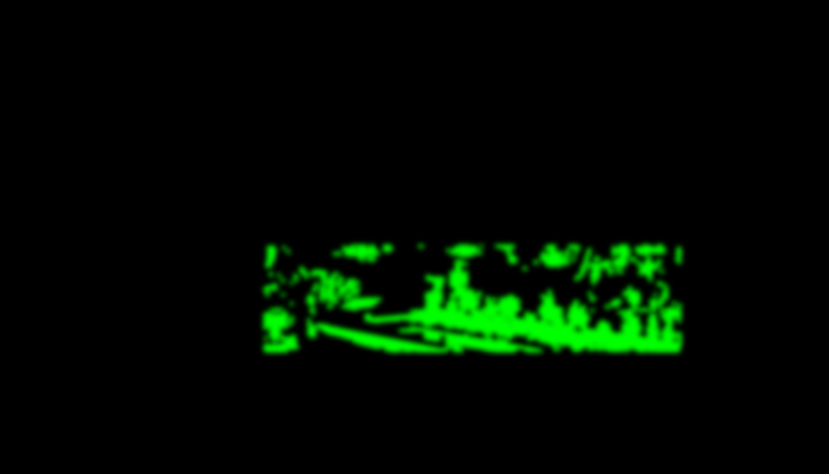
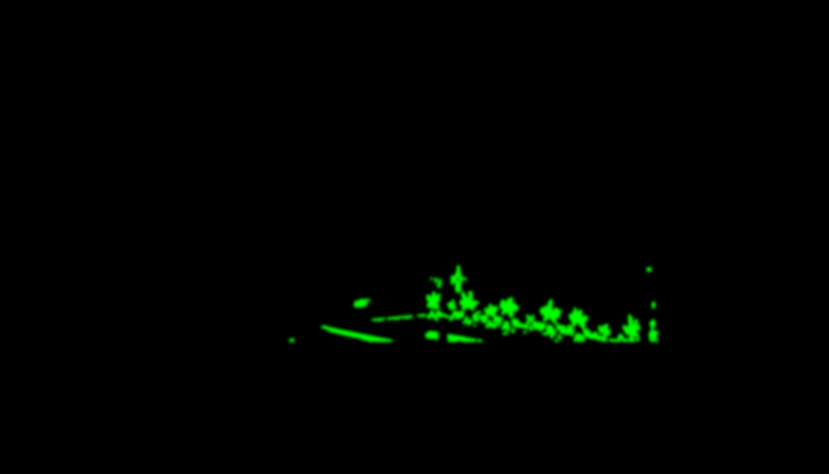
Trattoria Lume: tighter fire mask + readable After Sunset headline
- Rebuilt the terrace fire mask so only the actual flames animate, no bleed
  onto the deck, candles, or trees (fixed the 'whole page wavy' effect
  on the Late Night page).
- Added text shadow and a subtle glass pill behind the kicker on the Late
  Night hero so 'After Sunset' doesn't wash out against the uplit trees.
- Mirrored the headline shadow on the homepage terrace section.

Claude-Session: https://claude.ai/code/session_017zgNfKE9kkyFwF5JTjYFit

Changed region(s): [[0.3016, 0.5021, 0.8444, 0.7679]]

diff --git a/restaurant-demo/late-night.html b/restaurant-demo/late-night.html
@@ -15,9 +15,11 @@
   .late-hero picture img { object-fit: cover; }
   .late-hero canvas.fire { position: absolute; inset: 0; width: 100%; height: 100%; z-index: -2; opacity: 0; transition: opacity .6s; }
   .late-hero canvas.fire.on { opacity: 1; }
-  .late-hero::before { content: ""; position: absolute; inset: 0; z-index: -1; background: linear-gradient(to top, rgba(14,10,6,.9) 0%, rgba(14,10,6,.12) 55%, rgba(14,10,6,.35) 100%); }
+  .late-hero::before { content: ""; position: absolute; inset: 0; z-index: -1; background: linear-gradient(to top, rgba(14,10,6,.9) 0%, rgba(14,10,6,.25) 45%, rgba(14,10,6,.6) 85%, rgba(14,10,6,.75) 100%); }
   .late-hero .wrap { position: relative; z-index: 2; max-width: 900px; display: grid; gap: 20px; }
-  .late-hero h1 { font-size: clamp(44px, 7.2vw, 100px); line-height: 1; max-width: 14ch; }
+  .late-hero h1 { font-size: clamp(44px, 7.2vw, 100px); line-height: 1; max-width: 14ch; text-shadow: 0 4px 24px rgba(0,0,0,.55), 0 1px 2px rgba(0,0,0,.4); }
+  .late-hero .kicker { text-shadow: 0 1px 10px rgba(0,0,0,.6); background: rgba(14,10,6,.4); padding: 8px 14px; border-radius: 999px; backdrop-filter: blur(6px); -webkit-backdrop-filter: blur(6px); display: inline-block; width: fit-content; }
+  .late-hero .lede { text-shadow: 0 1px 10px rgba(0,0,0,.6); }
   .late-hero h1 em { font-style: italic; color: var(--candle-lt); font-weight: 500; }
   .late-hero .actions { display: flex; flex-wrap: wrap; gap: 12px; margin-top: 10px; }
 </style>

diff --git a/restaurant-demo/index.html b/restaurant-demo/index.html
@@ -157,7 +157,7 @@
   .sunset::before { content: ""; position: absolute; inset: 0; z-index: -1; background:
       linear-gradient(to top, rgba(14,10,6,.88) 0%, rgba(14,10,6,.1) 55%, rgba(14,10,6,.4) 100%); }
   .sunset .copy { max-width: 620px; display: grid; gap: 18px; }
-  .sunset h2 { font-size: clamp(36px, 5vw, 64px); line-height: 1.02; }
+  .sunset h2 { font-size: clamp(36px, 5vw, 64px); line-height: 1.02; text-shadow: 0 4px 24px rgba(0,0,0,.5), 0 1px 2px rgba(0,0,0,.4); }
   .sunset h2 em { font-style: italic; color: var(--candle-lt); font-weight: 500; }
   .sunset p { color: rgba(245,237,220,.86); }
   .sunset .actions { display: flex; flex-wrap: wrap; gap: 12px; margin-top: 8px; }
